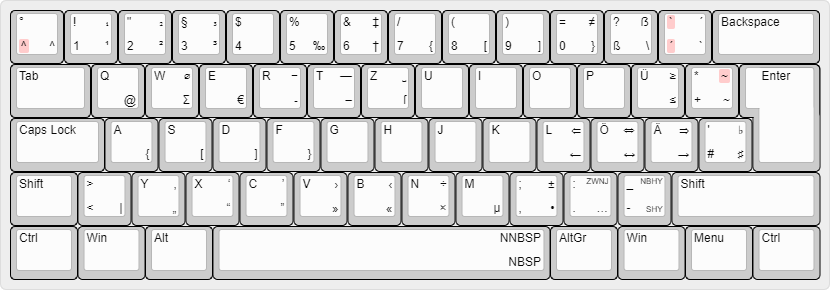
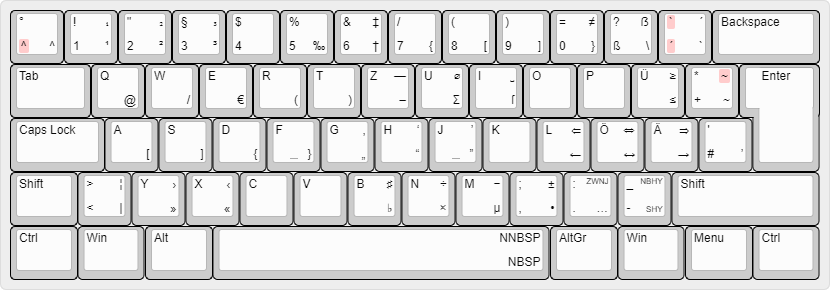
Move quite some keys around, change caps lock behavior, add reasoning
Also, fix dead key table warning and get rid of the hyphen (Viertelgeviertstrich).

diff --git a/README.md b/README.md
@@ -15,11 +15,12 @@ Eine Portierung auf andere Betriebssysteme werde ich vornehmen, wenn ich sie akt
 ## Vorteile
 
 * scyDE *erweitert* das bestehende deutsche Tastaturlayout. Alle Zeichen bleiben an ihren bekannten Positionen, es kommen nur neue hinzu.
-  * Das [NEO](https://www.neo-layout.org/)‐Projekt pflegt beispielsweise ein komplett umgebautes deutsches Tastaturlayout, dessen Fokus vor allem auch auf Ergonomie liegt. NEO bietet weit mehr Zeichen als scyDE, aber hat dafür eine signifikante Lernkurve: Alle Zeichen (auch die Buchstaben) befinden sich an komplett anderen Positionen.
-* Im Gegensatz zu [WinCompose](https://github.com/samhocevar/wincompose), das ebenfalls einen größeren Zeichenumfang bietet, werden (fast) alle Zeichen in scyDE ganz „normal“ über <kbd>Alt Gr</kbd> in Kombination mit einer Buchstaben‐ oder Ziffertaste aufgerufen und nicht mit mehreren aufeinanderfolgenden Tastendrücken.
-* Einige Zeichen sind zusätzlich zu ihren normalen Positionen auch an „bequemeren“ Orten erreichbar. So finden sich beispielsweise die zum Programmieren wichtigen `{[]}` auch auf <kbd>Alt Gr</kbd>+`asdf`.
+  * Das [NEO](https://www.neo-layout.org/)-Projekt pflegt beispielsweise ein komplett umgebautes deutsches Tastaturlayout, dessen Fokus vor allem auch auf Ergonomie liegt. NEO bietet weit mehr Zeichen als scyDE, aber hat dafür eine signifikante Lernkurve: Alle Zeichen (auch die Buchstaben) befinden sich an komplett anderen Positionen.
+* Im Gegensatz zu [WinCompose](https://github.com/samhocevar/wincompose), das ebenfalls einen größeren Zeichenumfang bietet, werden (fast) alle Zeichen in scyDE ganz „normal“ über <kbd>Alt Gr</kbd> in Kombination mit einer Buchstaben- oder Ziffertaste aufgerufen und nicht mit mehreren aufeinanderfolgenden Tastendrücken.
+* Einige Zeichen sind zusätzlich zu ihren normalen Positionen auch an „bequemeren“ Orten erreichbar. So finden sich beispielsweise die zum Programmieren wichtigen `[]{}` auch auf <kbd>Alt Gr</kbd>+`asdf`.
 * Die auf deutschen Tastaturen üblicherweise als [Tottasten](https://de.wikipedia.org/wiki/Tottaste) ausgeführten Zeichen ^, ` und ´ gibt es in scyDE zusätzlich in einer untoten(?) Variante. Die meist nicht tote Tilde (~) gibt es zusätzlich in tot.
 * Das Dezimaltrennzeichen auf dem Ziffernblock ist der Punkt, nicht das Komma.
+* Bei aktiviertem Caps-Lock (wer auch immer das benutzt) erscheint bei einem Druck auf eine Ziffer trotzdem die Ziffer, nicht Interpunktion. Leider lässt sich das Layout nicht so konfigurieren, dass ein kleines ß mit Caps Lock zu einem großen wird.
 
 ## Zeichenvorrat
 
@@ -29,11 +30,11 @@ scyDE bietet folgende zusätzliche Zeichen:
 * Versal-Eszett (ẞ) und langes s (ſ)
 * das geschützte Leerzeichen in der üblichen und einer schmalen Form (wie beispielsweise zwischen „z. B.“ empfohlen)
 * typographisch korrekte Anführungszeichen in „doppelt“ und ‚einfach‘ sowie auch in der “englischen” ‘Fassung’
-* Chevrons in »doppelt« und ›einfach‹ (und zwar im Gegensatz zu Mac‐Tastaturen in der richtigen Reihenfolge)
-* Viertel‐, Halb‐ und Geviertstriche (‐, –, —)
-* den bedingten Trenn‐ und den geschützten Bindestrich sowie den Bindehemmer
-* mathematische Zeichen für Laien, nämlich `×`, `÷`, `Σ`, `⌀`, `‰`, `±`, `≤`, `≥` und `≠`, sowie `≈` über die tote Tilde
-* 1, 2 und 3 in hoch‐ und tiefgestellter Variante
+* Chevrons in »doppelt« und ›einfach‹ (und zwar im Gegensatz zu Mac-Tastaturen in der richtigen Reihenfolge)
+* Halb- und Geviertstrich (–, —)
+* den bedingten Trenn- und den geschützten Bindestrich sowie den Bindehemmer
+* mathematische Zeichen für Laien, nämlich `×`, `÷`, `Σ`, `⌀`, `‰`, `±`, `≤`, `≥` und `≠`, sowie `≈`, `≃` und `≅` über die tote Tilde
+* 1, 2 und 3 in hoch- und tiefgestellter Variante
 * das Aufzählungszeichen (Bullet, •) sowie Kreuz (†) und Zweibalkenkreuz (‡)
 * die wichtigsten Pfeile für Fließtext: ← ↔ → und ⇐ ⇔ ⇒
 * ã, ñ, õ, Ã, Ñ und Õ (über die tote Tilde)
@@ -47,32 +48,28 @@ Hier das Layout in grafischer Form:
 * Die Tasten sind links mit der Belegung ohne, rechts mit <kbd>Alt Gr</kbd> beschriftet. Oben befindet sich die Beschriftung für mit, unten für ohne <kbd>Shift</kbd>.
 * Tottasten sind rot markiert.
 * Einige nichtdruckbare Zeichen sind mit Abkürzungen aufgeführt:
-  * NBSP: geschütztes Leerzeichen *(non‐breaking space)*
-  * NNBSP: schmales geschütztes Leerzeichen *(narrow non‐breaking space)*
+  * NBSP: geschütztes Leerzeichen *(non-breaking space)*
+  * NNBSP: schmales geschütztes Leerzeichen *(narrow non-breaking space)*
   * SHY: bedingter Trennstrich *(soft hyphen)*
-  * NBHY: geschützter Bindestrich *(non‐breaking hyphen)*
-  * ZWNJ: Bindehemmer *(zero‐width non‐joiner)*
-* Die Zeichen auf <kbd>R</kbd> und <kbd>T</kbd> sind auf der Grafik nicht so einfach zu unterscheiden. Auf <kbd>R</kbd> liegen Viertelgeviertstrich und (mit <kbd>Shift</kbd>) Minuszeichen, auf <kbd>T</kbd> Halbgeviert‐ und (mit <kbd>Shift</kbd>) Geviertstrich.
-* Die Akzente links von Backspace sind in der nicht‐toten Variante (mit <kbd>Alt Gr</kbd>) vertauscht. Das ist Absicht: Der sonst nur in Kombination mit <kbd>Shift</kbd> erreichbare Gravis wird beim Programmieren weit häufiger benutzt als der Akut.
+  * NBHY: geschützter Bindestrich *(non-breaking hyphen)*
+  * ZWNJ: Bindehemmer *(zero-width non-joiner)*
+* Die Zeichen auf <kbd>Z</kbd> und <kbd>M</kbd> sind auf der Grafik nicht so einfach zu unterscheiden. Auf <kbd>Z</kbd> liegen Halbgeviert- und (mit <kbd>Shift</kbd>) Geviertstrich, auf <kbd>M</kbd> wie üblich das µ für Mikro und (mit <kbd>Shift</kbd>) das Minuszeichen.
+* Die Akzente links von Backspace sind in der nicht-toten Variante (mit <kbd>Alt Gr</kbd>) vertauscht. Das ist Absicht: Der sonst nur in Kombination mit <kbd>Shift</kbd> erreichbare Gravis wird beim Programmieren weit häufiger benutzt als der Akut.
 * Die Grafik wurde mit `keyboard-layout-editor.com` erstellt, Informationen zur Anpassung findest du (auf Englisch) in [doc/chart.md](https://github.com/scy/scyDE/blob/master/doc/chart.md).
 
 ## Status
 
 Das aktuelle Layout wird von mir **testweise** im täglichen Einsatz benutzt. Es ist möglich, dass sich die Position einzelner Zeichen noch einmal ändert, daher tragen Releases noch eine `0.x` als Versionsnummer. Insbesondere:
 
-* Die Benutzung von Viertelgeviertstrichen (`U+2010 HYPHEN`) als „Standard“‐Bindestriche in Computersystemen macht womöglich mehr Ärger gegenüber dem verbreiteten Bindestrich‐Minus aus ASCII, als es tatsächlich bringt. Daher ist die Verwendung der prominenten Stelle <kbd>Alt Gr</kbd>+<kbd>R</kbd> vielleicht ungerechtfertigt. Wenn der Viertelgeviert von dort verschwindet, werden die Kombinationen mit <kbd>R</kbd> und <kbd>T</kbd> wahrscheinlich noch mal umsortiert.
-* Nach nur einigen Stunden mit Experimenten habe ich den Eindruck, dass für die häufige Nutzung der Anführungszeichen und Chevrons ihre Position bei `yxcvb` vielleicht ungeeignet ist.
-* In der Windows‐Version von IntelliJ konflikten <kbd>Alt Gr</kbd>+<kbd>Shift</kbd> zusammen mit <kbd>C</kbd>, <kbd>V</kbd> und <kbd>T</kbd> mit nützlichen Shortcuts, weil offensichtlich kein Unterschied zwischen <kbd>Strg</kbd>+<kbd>Alt</kbd> und <kbd>Alt Gr</kbd> gemacht wird. Vielleicht möchte ich diese Positionen lieber frei lassen. <kbd>L</kbd> und <kbd>N</kbd> sind zwar auch belegt, aber mit weniger wichtigen Funktionen.
-
 ## Installation
 
-Du findest ein ZIP‐File mit einem Installationsprogramm im [Releases‐Bereich bei GitHub](https://github.com/scy/scyDE/releases). Pack das File aus und starte die `setup.exe` darin.
+Du findest ein ZIP-File mit einem Installationsprogramm im [Releases-Bereich bei GitHub](https://github.com/scy/scyDE/releases). Pack das File aus und starte die `setup.exe` darin.
 
-## Build‐Prozess
+## Build-Prozess
 
 Wenn du Binaries von Fremden nicht vertraust (gut so!), kannst du das Layout auch aus der Quelldatei selbst bauen. Momentan ist der Build-Prozess für Windows manuell, aber auch sehr simpel.
 
-**Wichtig:** Unbequemerweise lässt sich dieser Prozess nicht starten, wenn scyDE aktuell auf deinem Computer installiert ist. Du musst es also vorher über den in Windows üblichen Weg deinstallieren.
+**Wichtig:** Unbequemerweise lässt sich dieser Prozess nicht starten, wenn scyDE aktuell auf deinem Computer installiert ist. Du musst es also vorher über den in Windows üblichen Weg deinstallieren. Damit du das kannst, musst du das Layout evtl. in den Spracheinstellungen vorher ebenfalls entfernen.
 
 - Installiere den [Microsoft Keyboard Layout Creator](https://msdn.microsoft.com/en-us/globalization/keyboardlayouts.aspx).
 - Öffne die Datei `src/scyDE.klc` aus diesem Repository mit ihm (über *File* → *Load Source File…*).
@@ -80,8 +77,22 @@ Wenn du Binaries von Fremden nicht vertraust (gut so!), kannst du das Layout auc
   * Die Warnung zu `is not in the default system code page (1252)` kann ignoriert werden; viele der verwendeten Zeichen kommen nur in Unicode vor und können daher in Windows-1252 nicht gefunden werden.
   * Auch `is already defined more than once` ist vernachlässigbar, da wir ja absichtlich Zeichen doppelt definieren.
   * `This key may not be present on all keyboards` bezieht sich auf Tasten, die nur auf einer (physisch) deutschen Tastatur an dieser Stelle sind. Eine solche hast du aber hoffentlich.
-  * `By convention, the last entry in the dead key table for … (U+007e) should be a space` ist legitim; da muss ich noch nacharbeiten. Ein Leerzeichen in den Dead‐Key‐Tabellen gibt es, aber es steht nicht an letzter Stelle. Funktioniert trotzdem.
-- Im erstellten Ordner findest du `.msi`‐Files und DLLs für verschiedene Prozessorarchitekturen, von denen die jeweils richtige bei der Installation ausgewählt wird. Ein Doppelklick auf `setup.exe` sollte den Installationsprozess starten.
+- Im erstellten Ordner findest du `.msi`-Files und DLLs für verschiedene Prozessorarchitekturen, von denen die jeweils richtige bei der Installation ausgewählt wird. Ein Doppelklick auf `setup.exe` sollte den Installationsprozess starten.
+
+## Begründungen
+
+Die Zeichen wurden nicht einfach zufällig auf der Tastatur verteilt.
+
+* Die Klammern bei `ASDF` orientieren sich an NEO. Sie liegen an dieser wertvollen Stelle, weil sie beim Programmieren ständig benutzt werden. Mit Mittel- und Zeigefinger Klammern öffnen und schließen zu können ist wichtiger, als das `7890`-Layout zu übernehmen.
+* Die runden Klammern auf `8` und `9` sind eigentlich recht einfach zu erreichen, erfordern aber trotzdem ein stärkeres Verschieben der rechten Hand als eine Bewegung der linken, wenn sie auf `R` und `T` liegen.
+* Ähnliches gilt für den Slash auf dem `W`, der dort insbesondere in Unix-Shells sehr hilfreich ist. Auf eine Kopie des Backslashes wurde dagegen verzichtet, weil der sich in meinen Augen recht einfach auf seiner normalen Position greifen lässt.
+* Beim Schreiben bequem viele bedingte Trennstriche setzen zu können ist manchmal wichtig, daher liegt er einprägsam auf der Taste für das Bindestrich-Minus. Der geschützte Bindestrich liegt der Merkbarkeit halber auf derselben Taste. Der ebenfalls häufig genutzte Halbgeviertstrich sollte auf `Z` mit der linken Hand noch gut genug erreichbar sein, der weniger häufig genutzte Geviertstrich liegt wieder passend bei ihm.
+* Die Anführungszeichen brauchen gleich drei nebeneinander liegende Tasten, jeweils mit und ohne Shift. Da C und V für Zwischenablagen-Shortcuts (vor allem IntelliJ’s <kbd>Strg</kbd>+<kbd>Alt</kbd>+<kbd>Shift</kbd>-Kombinationen) frei bleiben sollen, die Tasten aber auch im Fließtext gut erreichbar sein müssen, wurde `GH` bzw. `HJ` gewählt, was mit der linken Hand noch machbar sein sollte.
+* Die Pfeile brauchen genau so viel Platz, müssen aber nicht so gut erreichbar sein.
+* Um den Apostroph bei einem Genitiv-s nicht so kompliziert mit <kbd>Alt Gr</kbd> und <kbd>Shift</kbd> greifen zu müssen, gibt es ihn auch auf der Rautetaste, wo sich ja auch das ASCII-Singlequote, das dafür häufig benutzt wird, befindet.
+* Die Chevrons lassen sich im Fließtext mit der linken Hand ebenfalls gut greifen.
+* Das Multiplikationszeichen lässt sich mit „n-mal“ einigermaßen gut merken, das Divisionszeichen liegt auf derselben Taste. M für Minuszeichen ist auch eine gute Eselsbrücke, genau wie das ♭, das eben auf `b` liegt.
+* `U` steht für „Umme“ und „Urchschnitt“. Das lange s sieht fast aus wie ein I, und da es ein s ist, passt auch das Zeichen für Space dazu? Okay, langsam wird’s wild. Ich hör schon auf.
 
 ## Autor und Lizenz
 

diff --git a/doc/chart.md b/doc/chart.md
@@ -2,7 +2,7 @@
 
 To visualize the layout, this project uses the excellent service at `keyboard-layout-editor.com`, which is the hosted version of Ian Prest’s [Keyboard Layout Editor project](https://github.com/ijprest/keyboard-layout-editor).
 
-You can either use [this enormous permalink](http://www.keyboard-layout-editor.com/##@_css=.dead%20%7B%20background-color/:%20#fcc/;%20border-radius/:%202px/;%20padding/:%200%200.2em/;%20%7D;&@=%C2%B0%0A%3Cspan%20class/=%22dead%22%3E%5E%3C//span%3E%0A%0A%5E&=!%0A1%0A%E2%82%81%0A%C2%B9&=%22%0A2%0A%E2%82%82%0A%C2%B2&=%C2%A7%0A3%0A%E2%82%83%0A%C2%B3&=$%0A4&=%25%0A5%0A%0A%E2%80%B0&=/&%0A6%0A%E2%80%A1%0A%E2%80%A0&=//%0A7%0A%0A%7B&=(%0A8%0A%0A%5B&=)%0A9%0A%0A%5D&=/=%0A0%0A%E2%89%A0%0A%7D&=?%0A%C3%9F%0A%E1%BA%9E%0A%5C&=%3Cspan%20class/=%22dead%22%3E%60%3C//span%3E%0A%3Cspan%20class/=%22dead%22%3E%C2%B4%3C//span%3E%0A%C2%B4%0A%60&_w:2;&=Backspace;&@_w:1.5;&=Tab&=Q%0A%0A%0A/@&=W%0A%0A%E2%8C%80%0A%CE%A3&=E%0A%0A%0A%E2%82%AC&=R%0A%0A%E2%88%92%0A%E2%80%90&=T%0A%0A%E2%80%94%0A%E2%80%93&=Z%0A%0A%E2%90%A3%0A%C5%BF&=U&=I&=O&=P&=%C3%9C%0A%0A%E2%89%A5%0A%E2%89%A4&=*%0A+%0A%3Cspan%20class/=%22dead%22%3E~%3C//span%3E%0A~&_x:0.25&w:1.25&h:2&w2:1.5&h2:1&x2:-0.25;&=Enter;&@_w:1.75;&=Caps%20Lock&=A%0A%0A%0A%7B&=S%0A%0A%0A%5B&=D%0A%0A%0A%5D&=F%0A%0A%0A%7D&=G&=H&=J&=K&=L%0A%0A%E2%87%90%0A%E2%86%90&=%C3%96%0A%0A%E2%87%94%0A%E2%86%94&=%C3%84%0A%0A%E2%87%92%0A%E2%86%92&='%0A#%0A%E2%99%AD%0A%E2%99%AF;&@_w:1.25;&=Shift&=%3E%0A%3C%0A%0A%7C&=Y%0A%0A%E2%80%9A%0A%E2%80%9E&=X%0A%0A%E2%80%98%0A%E2%80%9C&=C%0A%0A%E2%80%99%0A%E2%80%9D&=V%0A%0A%E2%80%BA%0A%C2%BB&=B%0A%0A%E2%80%B9%0A%C2%AB&=N%0A%0A%C3%B7%0A%C3%97&=M%0A%0A%0A%C2%B5&=/;%0A,%0A%C2%B1%0A%E2%80%A2&_fa@:0&:0&:1;;&=/:%0A.%0AZWNJ%0A%E2%80%A6&_fa@:0&:0&:1&:1;;&=/_%0A-%0ANBHY%0ASHY&_w:2.75;&=Shift;&@_w:1.25;&=Ctrl&_w:1.25;&=Win&_w:1.25;&=Alt&_f:3&w:6.25;&=%0A%0ANNBSP%0ANBSP&_w:1.25;&=AltGr&_w:1.25;&=Win&_w:1.25;&=Menu&_w:1.25;&=Ctrl) to load the scyDE layout, or use the following JSONish string and CSS.
+You can either use [this enormous permalink](http://www.keyboard-layout-editor.com/##@_css=.dead%20%7B%20background-color/:%20#fcc/;%20border-radius/:%202px/;%20padding/:%200%200.2em/;%20%7D;&@=%C2%B0%0A%3Cspan%20class/=%22dead%22%3E%5E%3C//span%3E%0A%0A%5E&=!%0A1%0A%E2%82%81%0A%C2%B9&=%22%0A2%0A%E2%82%82%0A%C2%B2&=%C2%A7%0A3%0A%E2%82%83%0A%C2%B3&=$%0A4&=%25%0A5%0A%0A%E2%80%B0&=/&%0A6%0A%E2%80%A1%0A%E2%80%A0&=//%0A7%0A%0A%7B&=(%0A8%0A%0A%5B&=)%0A9%0A%0A%5D&=/=%0A0%0A%E2%89%A0%0A%7D&=?%0A%C3%9F%0A%E1%BA%9E%0A%5C&=%3Cspan%20class/=%22dead%22%3E%60%3C//span%3E%0A%3Cspan%20class/=%22dead%22%3E%C2%B4%3C//span%3E%0A%C2%B4%0A%60&_w:2;&=Backspace;&@_w:1.5;&=Tab&=Q%0A%0A%0A/@&=W%0A%0A%0A//&=E%0A%0A%0A%E2%82%AC&=R%0A%0A%0A(&=T%0A%0A%0A)&=Z%0A%0A%E2%80%94%0A%E2%80%93&=U%0A%0A%E2%8C%80%0A%CE%A3&=I%0A%0A%E2%90%A3%0A%C5%BF&=O&=P&=%C3%9C%0A%0A%E2%89%A5%0A%E2%89%A4&=*%0A+%0A%3Cspan%20class/=%22dead%22%3E~%3C//span%3E%0A~&_x:0.25&w:1.25&h:2&w2:1.5&h2:1&x2:-0.25;&=Enter;&@_w:1.75;&=Caps%20Lock&=A%0A%0A%0A%5B&=S%0A%0A%0A%5D&=D%0A%0A%0A%7B&_n:true;&=F%0A%0A%0A%7D&=G%0A%0A%E2%80%9A%0A%E2%80%9E&=H%0A%0A%E2%80%98%0A%E2%80%9C&_n:true;&=J%0A%0A%E2%80%99%0A%E2%80%9D&=K&=L%0A%0A%E2%87%90%0A%E2%86%90&=%C3%96%0A%0A%E2%87%94%0A%E2%86%94&=%C3%84%0A%0A%E2%87%92%0A%E2%86%92&='%0A#%0A%0A%E2%80%99;&@_w:1.25;&=Shift&=%3E%0A%3C%0A%C2%A6%0A%7C&=Y%0A%0A%E2%80%BA%0A%C2%BB&=X%0A%0A%E2%80%B9%0A%C2%AB&=C&=V&=B%0A%0A%E2%99%AF%0A%E2%99%AD&=N%0A%0A%C3%B7%0A%C3%97&=M%0A%0A%E2%88%92%0A%C2%B5&=/;%0A,%0A%C2%B1%0A%E2%80%A2&_fa@:0&:0&:1;;&=/:%0A.%0AZWNJ%0A%E2%80%A6&_fa@:0&:0&:1&:1;;&=/_%0A-%0ANBHY%0ASHY&_w:2.75;&=Shift;&@_w:1.25;&=Ctrl&_w:1.25;&=Win&_w:1.25;&=Alt&_f:3&w:6.25;&=%0A%0ANNBSP%0ANBSP&_w:1.25;&=AltGr&_w:1.25;&=Win&_w:1.25;&=Menu&_w:1.25;&=Ctrl) to load the scyDE layout, or use the following JSONish string and CSS.
 
 Except for simply specifying the keys and what they do, the only thing that’s special is the use of the `.dead` CSS class to highlight dead keys in red.
 
@@ -12,9 +12,9 @@ Load this into the “Raw data” tab:
 
 ```javascript
 ["°\n<span class=\"dead\">^</span>\n\n^","!\n1\n₁\n¹","\"\n2\n₂\n²","§\n3\n₃\n³","$\n4","%\n5\n\n‰","&\n6\n‡\n†","/\n7\n\n{","(\n8\n\n[",")\n9\n\n]","=\n0\n≠\n}","?\nß\nẞ\n\\","<span class=\"dead\">`</span>\n<span class=\"dead\">´</span>\n´\n`",{w:2},"Backspace"],
-[{w:1.5},"Tab","Q\n\n\n@","W\n\n⌀\nΣ","E\n\n\n€","R\n\n−\n‐","T\n\n—\n–","Z\n\n␣\nſ","U","I","O","P","Ü\n\n≥\n≤","*\n+\n<span class=\"dead\">~</span>\n~",{x:0.25,w:1.25,h:2,w2:1.5,h2:1,x2:-0.25},"Enter"],
-[{w:1.75},"Caps Lock","A\n\n\n{","S\n\n\n[","D\n\n\n]","F\n\n\n}","G","H","J","K","L\n\n⇐\n←","Ö\n\n⇔\n↔","Ä\n\n⇒\n→","'\n#\n♭\n♯"],
-[{w:1.25},"Shift",">\n<\n\n|","Y\n\n‚\n„","X\n\n‘\n“","C\n\n’\n”","V\n\n›\n»","B\n\n‹\n«","N\n\n÷\n×","M\n\n\nµ",";\n,\n±\n•",{fa:[0,0,1]},":\n.\nZWNJ\n…",{fa:[0,0,1,1]},"_\n-\nNBHY\nSHY",{w:2.75},"Shift"],
+[{w:1.5},"Tab","Q\n\n\n@","W\n\n\n/","E\n\n\n€","R\n\n\n(","T\n\n\n)","Z\n\n—\n–","U\n\n⌀\nΣ","I\n\n␣\nſ","O","P","Ü\n\n≥\n≤","*\n+\n<span class=\"dead\">~</span>\n~",{x:0.25,w:1.25,h:2,w2:1.5,h2:1,x2:-0.25},"Enter"],
+[{w:1.75},"Caps Lock","A\n\n\n[","S\n\n\n]","D\n\n\n{",{n:true},"F\n\n\n}","G\n\n‚\n„","H\n\n‘\n“",{n:true},"J\n\n’\n”","K","L\n\n⇐\n←","Ö\n\n⇔\n↔","Ä\n\n⇒\n→","'\n#\n\n’"],
+[{w:1.25},"Shift",">\n<\n¦\n|","Y\n\n›\n»","X\n\n‹\n«","C","V","B\n\n♯\n♭","N\n\n÷\n×","M\n\n−\nµ",";\n,\n±\n•",{fa:[0,0,1]},":\n.\nZWNJ\n…",{fa:[0,0,1,1]},"_\n-\nNBHY\nSHY",{w:2.75},"Shift"],
 [{w:1.25},"Ctrl",{w:1.25},"Win",{w:1.25},"Alt",{f:3,w:6.25},"\n\nNNBSP\nNBSP",{w:1.25},"AltGr",{w:1.25},"Win",{w:1.25},"Menu",{w:1.25},"Ctrl"]
 ```
 
